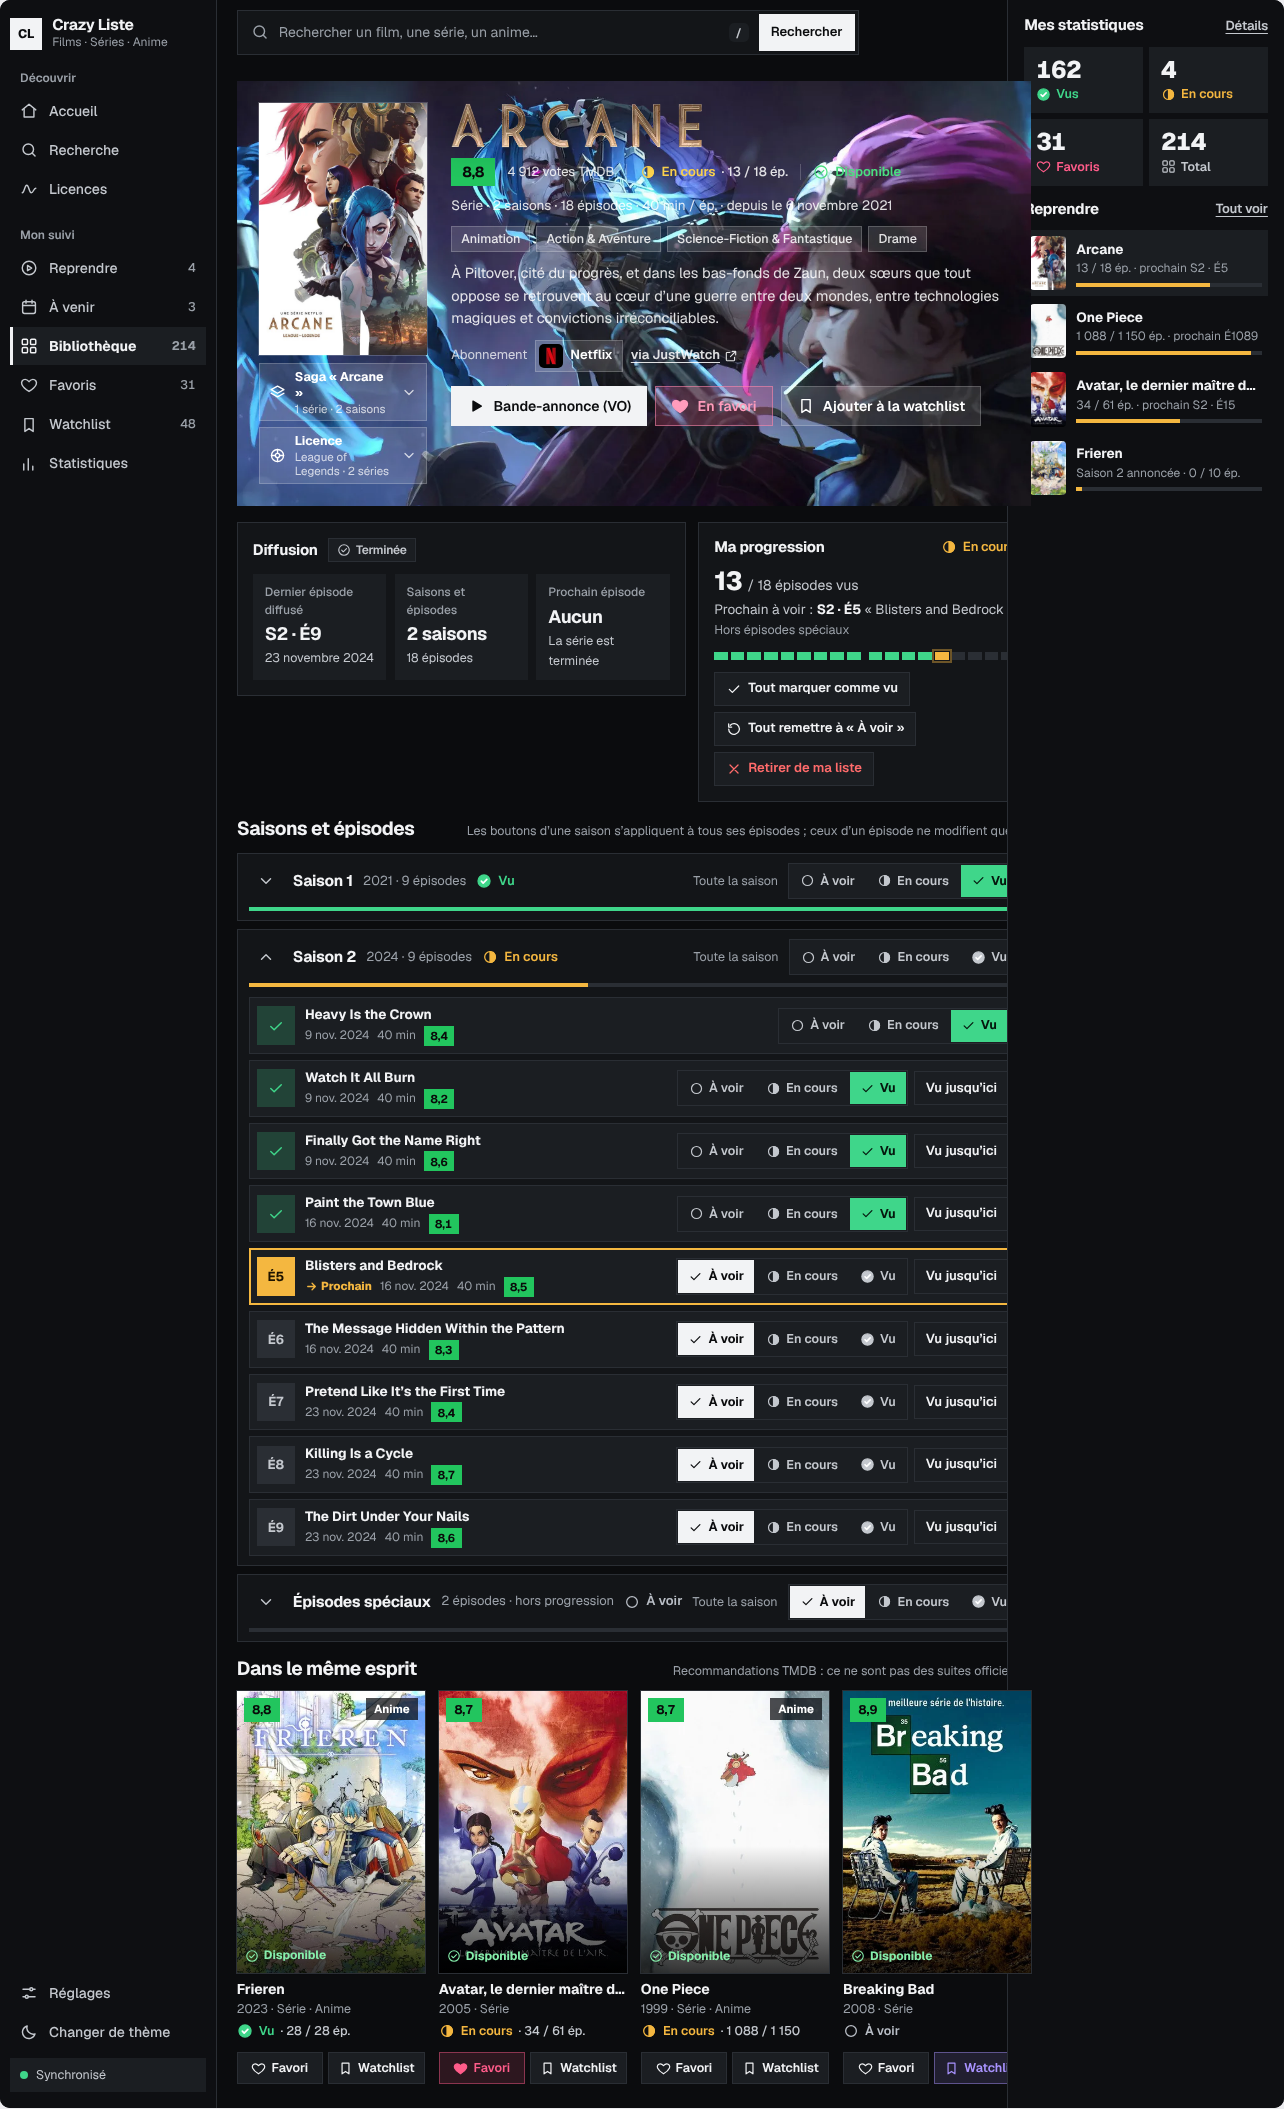
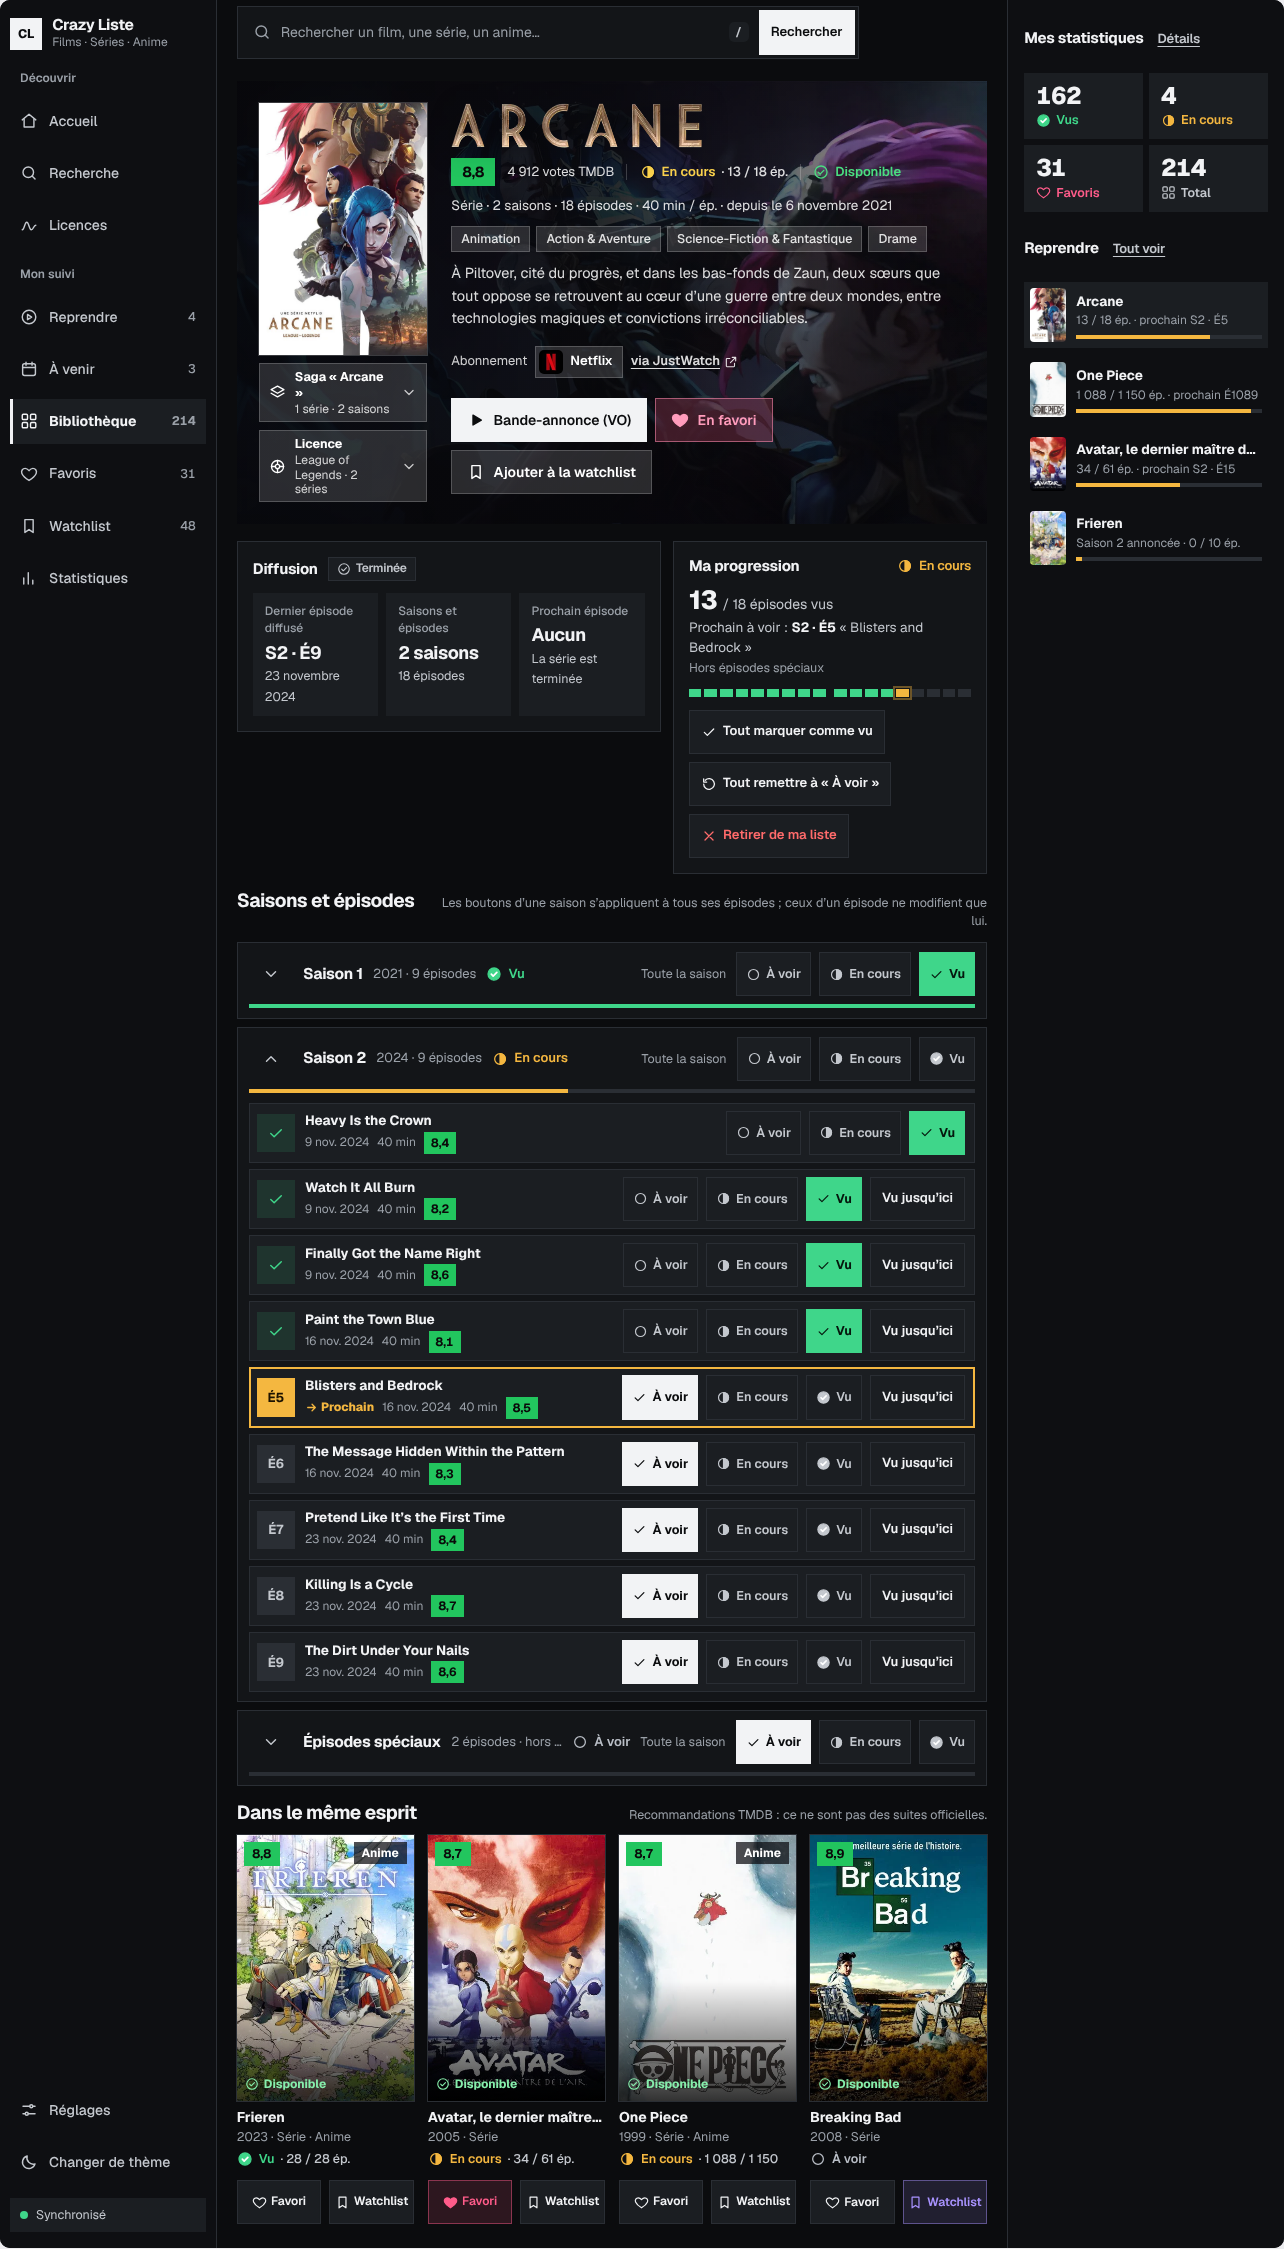
Atelier : passe complète du skill UI/UX (contraste mesuré, cibles 44 px, texte 12 px) et script d'audit
Claude-Session: https://claude.ai/code/session_012EWjZrtSGXyqLTim6ws6zk

diff --git a/maquettes/07-atelier/index.html b/maquettes/07-atelier/index.html
@@ -17,12 +17,12 @@ body{background:var(--a-bg);color:var(--a-fg);font:400 15px/1.5 var(--a-f)}
 .ah h1{margin:0;font-size:clamp(24px,4vw,34px);font-weight:800;letter-spacing:-.035em;line-height:1.1;text-wrap:balance}
 .ah p{margin:6px 0 0;color:var(--a-fg2);max-width:70ch}
 .picked{font-size:14px;color:var(--a-fg2)}.picked b{color:var(--a-pick)}
-.tabs{display:flex;gap:4px;padding:4px;border-radius:10px;background:var(--a-panel);box-shadow:inset 0 0 0 1px var(--a-line);width:max-content;max-width:100%;overflow-x:auto;margin-bottom:18px}
-.tabs a{display:inline-flex;align-items:center;gap:6px;min-height:40px;padding:0 14px;border-radius:7px;color:var(--a-fg2);font-weight:600;text-decoration:none;white-space:nowrap}
+.tabs{display:flex;gap:8px;padding:4px;border-radius:10px;background:var(--a-panel);box-shadow:inset 0 0 0 1px var(--a-line);width:max-content;max-width:100%;overflow-x:auto;margin-bottom:18px}
+.tabs a{display:inline-flex;align-items:center;gap:6px;min-height:44px;padding:0 14px;border-radius:7px;color:var(--a-fg2);font-weight:600;text-decoration:none;white-space:nowrap}
 .tabs a[aria-current="page"]{background:var(--a-acc);color:var(--a-accfg)}
 .tabs small{font-weight:500;opacity:.75}
-.filters{display:flex;flex-wrap:wrap;gap:6px;margin:-4px 0 16px}
-.filters button{min-height:36px;padding:0 12px;border-radius:999px;border:1px solid var(--a-line);background:var(--a-panel);font-size:13.5px;font-weight:600;cursor:pointer;color:var(--a-fg2)}
+.filters{display:flex;flex-wrap:wrap;gap:8px;margin:-4px 0 16px}
+.filters button{min-height:44px;padding:0 12px;border-radius:999px;border:1px solid var(--a-line);background:var(--a-panel);font-size:13.5px;font-weight:600;cursor:pointer;color:var(--a-fg2)}
 .filters button[aria-pressed="true"]{background:var(--a-acc);color:var(--a-accfg);border-color:var(--a-acc)}
 .grid{display:grid;grid-template-columns:repeat(auto-fill,minmax(min(100%,330px),1fr));gap:16px}
 .pc{display:flex;flex-direction:column;border-radius:12px;background:var(--a-panel);box-shadow:inset 0 0 0 1px var(--a-line);overflow:hidden;min-width:0}
@@ -35,8 +35,8 @@ body{background:var(--a-bg);color:var(--a-fg);font:400 15px/1.5 var(--a-f)}
 .pct b{font-size:16.5px;letter-spacing:-.015em}.pct span{font:600 12.5px var(--a-f);color:var(--a-mut);font-variant-numeric:tabular-nums}
 .pcm{font-size:13px;color:var(--a-fg2)}
 .pcd{font-size:13.5px;color:var(--a-mut);line-height:1.45}
-.pca{display:flex;flex-wrap:wrap;gap:6px;margin-top:8px}
-.ab{text-decoration:none;display:inline-flex;align-items:center;gap:6px;min-height:36px;padding:0 12px;border-radius:8px;border:1px solid var(--a-line);background:none;cursor:pointer;font-size:13.5px;font-weight:600;color:var(--a-fg)}
+.pca{display:flex;flex-wrap:wrap;gap:8px;margin-top:8px}
+.ab{text-decoration:none;display:inline-flex;align-items:center;gap:6px;min-height:44px;padding:0 14px;border-radius:8px;border:1px solid var(--a-line);background:none;cursor:pointer;font-size:13.5px;font-weight:600;color:var(--a-fg)}
 .ab.pri{background:var(--a-acc);color:var(--a-accfg);border-color:var(--a-acc)}
 .ab[aria-pressed="true"]{color:var(--a-pick);border-color:var(--a-pick)}
 .ab svg{width:16px;height:16px;fill:none;stroke:currentColor;stroke-width:2;stroke-linecap:round;stroke-linejoin:round}
@@ -55,9 +55,9 @@ body{background:var(--a-bg);color:var(--a-fg);font:400 15px/1.5 var(--a-f)}
 .note b{color:var(--a-fg)}
 .cmpbar{display:grid;grid-template-columns:1fr auto 1fr;gap:10px;align-items:end;margin-bottom:12px}
 .cmpbar label{display:grid;gap:4px;font-size:13px;font-weight:600;color:var(--a-fg2);min-width:0}
-.cmpbar select{min-height:42px;padding:0 10px;border-radius:8px;border:1px solid var(--a-line);background:var(--a-panel);width:100%;font-size:14.5px}
+.cmpbar select{min-height:44px;padding:0 10px;border-radius:8px;border:1px solid var(--a-line);background:var(--a-panel);width:100%;font-size:14.5px}
 .cmpopts{display:flex;flex-wrap:wrap;gap:16px;align-items:center;margin:0 0 12px;font-size:14px;color:var(--a-fg2)}
-.cmpopts label{display:inline-flex;align-items:center;gap:8px;min-height:36px;cursor:pointer}
+.cmpopts label{display:inline-flex;align-items:center;gap:8px;min-height:44px;cursor:pointer}
 .cmpopts input{width:18px;height:18px;accent-color:var(--a-pick)}
 .panes{display:grid;grid-template-columns:1fr 1fr;gap:12px}
 .pane{display:grid;grid-template-rows:auto 1fr;min-width:0}
@@ -174,7 +174,7 @@ function detailNew(id) {
   view.innerHTML = '<div class="dbar"><a class="ab" href="#galerie">' + svg('left') + 'Galerie</a><div class="grow"><h2>' + d.id + ' · ' + d.n + '</h2><p>' + d.style + ' · ' + d.lay + ' · police ' + d.font + ' · thème ' + d.th.toLowerCase() + '</p></div>' +
     pickBtn('n' + d.id) + cmpBtn('n' + d.id) + '<a class="ab" href="#p-' + prev.id + '">' + svg('left') + prev.id + '</a><a class="ab" href="#p-' + next.id + '">' + next.id + svg('chevr') + '</a></div>' +
     '<div class="stagewrap">' + stageNew(d) + '</div>' +
-    '<p class="note"><b>' + d.d + '</b><br>Mêmes infos que le site sur chaque proposition : note TMDB colorée, disponibilité, statut, progression par épisode, Favori / Watchlist, boutons Saga et Licence sous l’affiche, diffusion, offres, résumé, saisons et épisodes (À voir / En cours / Vu, Vu jusqu’ici), prochain épisode, Mes statistiques et Reprendre. Règles du skill UI/UX appliquées : texte à 4,5:1 au moins, statut toujours écrit et accompagné d’une icône, boutons de 32 à 44 px, icônes SVG.</p>';
+    '<p class="note"><b>' + d.d + '</b><br>Mêmes infos que le site sur chaque proposition : note TMDB colorée, disponibilité, statut, progression par épisode, Favori / Watchlist, boutons Saga et Licence sous l’affiche, diffusion, offres, résumé, saisons et épisodes (À voir / En cours / Vu, Vu jusqu’ici), prochain épisode, Mes statistiques et Reprendre. Contrôlé avec le skill UI/UX Pro Max et un script de mesure : contraste du texte mesuré sur les pixels réels du fond (4,5:1 au moins, 3:1 pour les grands titres), toutes les cibles cliquables à 44 px au moins avec 8 px d’écart, texte à 12 px au moins, statut toujours écrit avec une icône, icônes SVG, contour visible au clavier. Résultat : 0 écart sur les 16 propositions.</p>';
   watch(view);
 }
 function detailOld(id) {

diff --git a/maquettes/07-atelier/designs.css b/maquettes/07-atelier/designs.css
@@ -427,3 +427,58 @@
 .dz .blk{grid-template-columns:minmax(0,1fr)}
 .dz .ca{display:grid;grid-template-columns:1fr 1fr;gap:4px}.dz .btn.xs{padding:0 4px;gap:4px;min-width:0;font-size:12px}
 .dz .em{overflow:hidden}
+
+/* ===== Passe skill UI/UX Pro Max : cibles 44 px, 8 px entre cibles, texte 12 px minimum ===== */
+.dz .btn,.dz .btn.sm,.dz .btn.xs,.dz .sg,.dz .nl,.dz .slb{min-height:44px}
+.dz .btn.icon{width:44px}
+.dz .sx{width:44px;height:44px}
+.dz .seg{gap:8px;padding:0;background:none;box-shadow:none}
+.dz .sg{box-shadow:inset 0 0 0 1px var(--line);background:var(--surf2);border-radius:var(--rb)}
+.dz .sg.on{box-shadow:none}
+.dz .acts,.dz .pacts,.dz .ca,.dz .sl,.dz .ec,.dz .nav-full .ng,.dz .nfoot,.dz .rfoot,.dz .nav-rail .ng,.L-dock .dock .ng,.dz .nav-top .ng,.dz .rl{gap:8px}
+.dz .nav-top{gap:8px}
+.dz .ca{gap:8px}
+.dz .jw{min-height:44px}
+.dz .bh a{display:inline-flex;align-items:center;min-height:44px;padding:0 4px;margin:-12px -4px}
+.dz .search{height:52px;padding-left:16px}.dz .search .btn{min-height:44px}
+.dz .search.compact{height:44px;max-width:200px}
+.dz .rr{min-height:56px}
+/* texte : 12 px minimum */
+.dz .nx,.dz .slb small,.dz .ctag,.dz .search kbd,.L-table .kv dt,.L-table .etab th,.dz .cav,.dz .em,.dz .tagS{font-size:12px}
+.dz .rate.sm{font-size:12px;height:22px;min-width:32px}
+.L-rail{grid-template-columns:96px minmax(0,1fr) 300px}
+.L-rail .rail .nl{width:84px;min-height:56px;font-size:12px}
+.L-dock .dock .nl{font-size:12px;min-width:68px;min-height:56px}
+.L-table .hd .slb{min-height:44px}.L-table .acts .btn{min-height:44px}
+.L-table .etab td{padding:6px 8px}
+.L-table .nl{min-height:44px}
+.dz .nav-top .nl{min-height:44px}
+/* voile sous le texte des bandeaux photo : il doit passer AU-DESSUS de l'image */
+.dz .bdh>.bd,.L-split .left>.bd{z-index:-2}
+.dz .bdh::before{background:linear-gradient(90deg,rgba(6,6,9,.93) 0%,rgba(6,6,9,.86) 50%,rgba(6,6,9,.55) 78%,rgba(6,6,9,.25) 100%),linear-gradient(0deg,rgba(6,6,9,.6),transparent 55%)}
+.dz .bdh .htx{max-width:640px}
+.L-bento .t-hero.bdh::before{background:linear-gradient(90deg,rgba(6,6,9,.93) 0%,rgba(6,6,9,.84) 55%,rgba(6,6,9,.35) 100%)}
+/* contraste : corrections après mesure */
+.dz .onimg{--mut:rgba(255,255,255,.8);--fav:#ff8fb0}
+.dz .onimg .mark{background:#fff;color:#0b0b0e}
+.dz .ep-v .no{background:color-mix(in srgb,var(--seen) 12%,transparent)}
+.dz .sx{flex:none}
+.dz .bh a{margin:0}
+.dz .nav-top .nc{font-size:12px}
+.s02{--surf:rgba(255,255,255,.8);--surf2:rgba(255,255,255,.84);--fg2:#2b2f3d;--mut:#454a5c;--prog:#92400e;--seen:#04694c;--fav:#a8104a;--amb:.42}
+.s02 .tbar{background:rgba(255,255,255,.55);backdrop-filter:blur(20px);-webkit-backdrop-filter:blur(20px)}
+.s02 .ssh{padding:8px 12px;border-radius:12px;background:rgba(255,255,255,.7)}
+.s06{--fav:#ad1050}
+.s10{--prog:#9a4800;--fav:#ad1150}
+.s11{--fav:#ff86a6}
+.s13{--mut:#b8b8c2}
+.s14{--fav:#a8104c}
+.s15{--fav:#ad1150;--seen:#06663f}
+.s16{--prog:#984600;--fav:#ad1150}
+.s02 .sim{padding:14px 16px 16px;border-radius:18px;background:rgba(255,255,255,.82);backdrop-filter:blur(26px) saturate(170%);-webkit-backdrop-filter:blur(26px) saturate(170%);box-shadow:var(--sh),inset 0 0 0 1px rgba(255,255,255,.7)}
+.s02 .sim .ssh{padding:0;background:none}
+/* états : survol, clavier, mouvement réduit */
+.dz button,.dz a{cursor:pointer}
+.dz .btn:hover,.dz .sg:hover,.dz .nl:hover,.dz .slb:hover,.dz .rr:hover{filter:brightness(1.12)}
+.dz :focus-visible{outline:2px solid var(--fg);outline-offset:2px}
+@media (prefers-reduced-motion:no-preference){.dz .btn,.dz .sg,.dz .nl,.dz .slb,.dz .rr{transition:filter .15s ease-out,background-color .15s ease-out}}

diff --git a/maquettes/README.md b/maquettes/README.md
@@ -20,5 +20,6 @@ Chaque dossier contient la maquette (`maquette.html`, à ouvrir dans un navigate
 - `outils/shot2.mjs` : capture chaque `.frame` d'une maquette (`node maquettes/outils/shot2.mjs <racine> <maquette.html> <préfixe>`).
 - `outils/capture-compare.mjs` : captures de toutes les pages du vrai site avec le TMDB simulé des tests (`node maquettes/outils/capture-compare.mjs <racine> <crazy-liste.html> <dossier>`).
 - `outils/compose.mjs` : assemble des comparaisons avant / après côte à côte.
+- `outils/audit-atelier.cjs` : audit des 16 propositions de l'atelier selon les règles du skill UI/UX : contraste mesuré sur les pixels réels du fond, cibles de 44 px, 8 px entre cibles, texte de 12 px minimum (`node maquettes/outils/audit-atelier.cjs <page de test.html>`).
 
 Le skill UI/UX Pro Max utilisé pour ces choix est dans `.claude/skills/ui-ux-pro-max/` (licence MIT).
